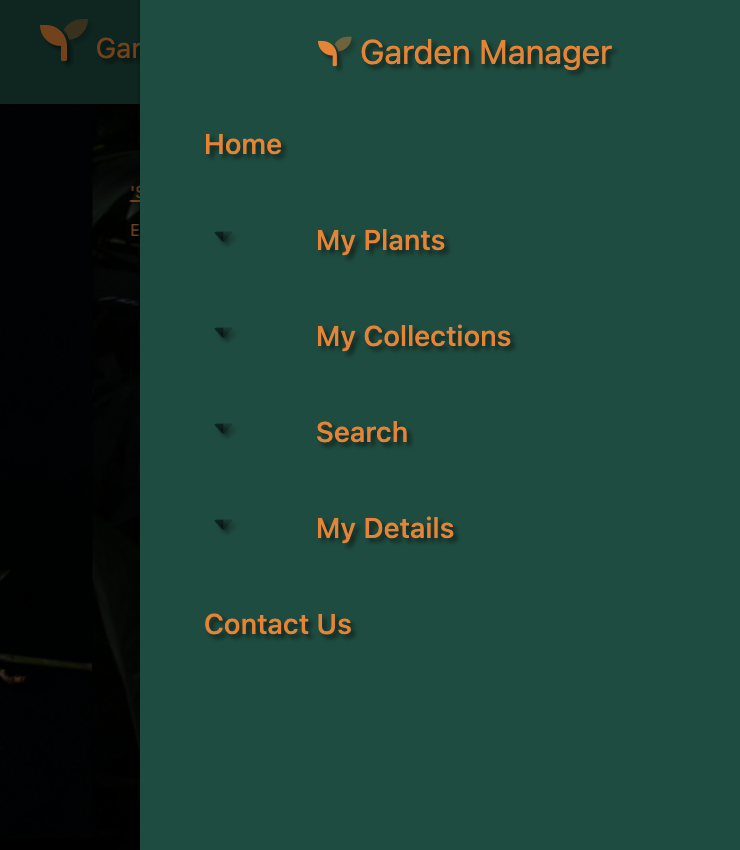
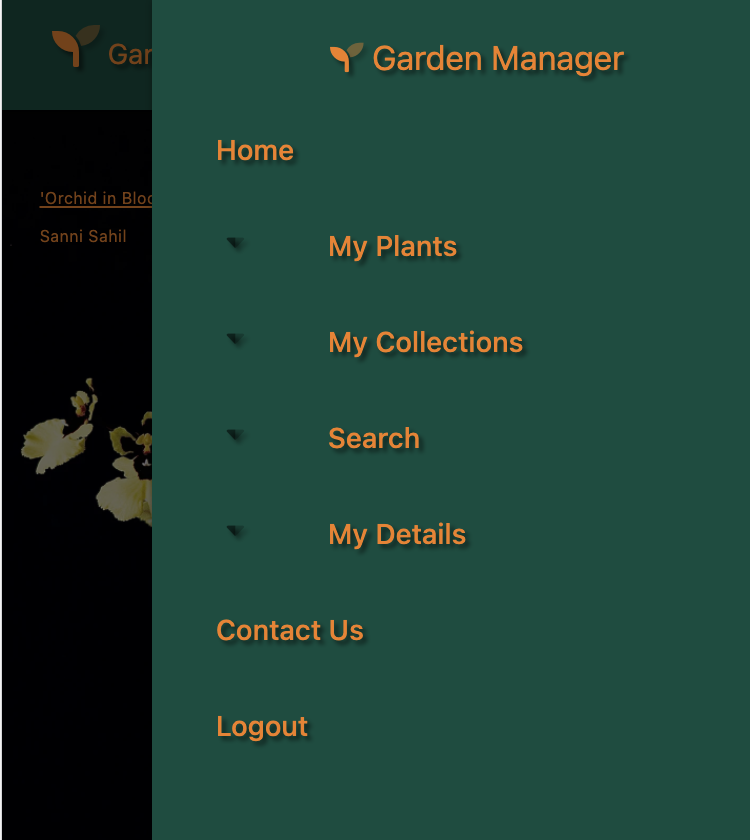
Post mentor review updates

diff --git a/templates/base.html b/templates/base.html
@@ -100,6 +100,17 @@
                     >My Details<i class="fad fa-caret-down"></i
                   ></a>
                 </li>
+                <li>
+                  <a
+                    href="{{ url_for('contact') }}"
+                    class="yellow-text text-darken-4"
+                    >Contact Us</a
+                  >
+                </li>
+                <li>
+                    <a href="{{ url_for('logout') }}" class="yellow-text text-darken-4"
+                    >Logout</a>
+                </li>
                 {% else %}
                 <li>
                   <a
@@ -115,7 +126,6 @@
                     >Register</a
                   >
                 </li>
-                {% endif %}
                 <li>
                   <a
                     href="{{ url_for('contact') }}"
@@ -123,6 +133,7 @@
                     >Contact Us</a
                   >
                 </li>
+                {% endif %}
               </ul>
             </div>
           </nav>
@@ -171,6 +182,14 @@
               >My Details<i class="fad fa-caret-down"></i
             ></a>
           </li>
+          <li>
+            <a href="{{ url_for('contact') }}" class="yellow-text text-darken-4"
+              >Contact Us</a>
+          </li>
+          <li>
+            <a href="{{ url_for('logout') }}" class="yellow-text text-darken-4"
+            >Logout</a>
+                </li>
           {% else %}
           <li>
             <a href="{{ url_for('login') }}" class="yellow-text text-darken-4"
@@ -181,15 +200,13 @@
             <a
               href="{{ url_for('register') }}"
               class="yellow-text text-darken-4"
-              >Register</a
-            >
+              >Register</a>
           </li>
-          {% endif %}
           <li>
             <a href="{{ url_for('contact') }}" class="yellow-text text-darken-4"
-              >Contact Us</a
-            >
+              >Contact Us</a>
           </li>
+          {% endif %}
         </ul>
 
         <ul id="dropdown1" class="dropdown-content teal darken-4">
@@ -259,11 +276,6 @@
               >My Details</a
             >
           </li>
-          <li>
-            <a href="{{ url_for('logout') }}" class="yellow-text text-darken-4"
-              >Logout</a
-            >
-          </li>
         </ul>
         <ul id="dropdown6" class="dropdown-content teal darken-4">
           <li>
@@ -330,11 +342,6 @@
           <li>
             <a href="{{url_for('get_users')}}" class="yellow-text text-darken-4"
               >My Details</a
-            >
-          </li>
-          <li>
-            <a href="{{ url_for('logout') }}" class="yellow-text text-darken-4"
-              >Logout</a
             >
           </li>
         </ul>

diff --git a/templates/index.html b/templates/index.html
@@ -19,17 +19,8 @@
           images, scientific details, colors, activities. Add, delete, review
           your plants and put them in your collections!
         </p>
-        <div class="row"></div>
-        <a
-          href="{{ url_for('login') }}"
-          class="waves-effect waves-light teal darken-2 btn left"
-          >Login <i class="fas fa-sign-in-alt"></i
-        ></a>
-        <a
-          href="{{ url_for('register') }}"
-          class="waves-effect waves-light teal darken-2 btn right"
-          >Register <i class="fas fa-edit"></i
-        ></a>
+        
+        
       </div>
     </div>
   </div>
@@ -82,21 +73,6 @@
         </p>
       </div>
     </div>
-  </div>
-</div>
-
-<div class="row">
-  <div class="btn-css">
-    <a
-      href="{{ url_for('register') }}"
-      class="waves-effect waves-light teal darken-2 btn"
-      >Register <i class="fas fa-edit"></i
-    ></a>
-    <a
-      href="{{ url_for('login') }}"
-      class="waves-effect waves-light teal darken-2 btn right"
-      >Login <i class="fas fa-sign-in-alt"></i
-    ></a>
   </div>
 </div>
 {% endblock %}

diff --git a/templates/register.html b/templates/register.html
@@ -11,7 +11,7 @@
     <div class="card-panel">
       <!-- first name / last name -->
       <div class="row">
-        <div class="input-field col s6">
+        <div class="input-field col s12">
           <i class="fas fa-user prefix teal-text text-darken-4"></i>
           <input
             id="first_name"
@@ -22,7 +22,9 @@
           />
           <label for="first_name">First Name</label>
         </div>
-        <div class="input-field col s6">
+        </div>
+        <div class="row">
+        <div class="input-field col s12">
           <i class="fas fa-address-book prefix teal-text text-darken-4"></i>
           <input
             id="last_name"

diff --git a/templates/editplants.html b/templates/editplants.html
@@ -73,7 +73,7 @@
         <div class="row">
 			<div class="input-field col s12">
 				<i class="material-icons prefix">today</i>
-				<input id="date_added" name="date_added" type="text" class="datepicker" value="{{plant.date_added}}">
+				<input id="date_added" name="date_added" type="date" class="datepicker" value="{{plant.date_added}}">
 				<label for="date_added">Date Added: </label>
 			</div>
         </div>

diff --git a/templates/editcollections.html b/templates/editcollections.html
@@ -33,7 +33,7 @@
           <input
             id="date_added"
             name="date_added"
-            type="text"
+            type="date"
             class="datepicker"
             value="{{collection.date_added}}"
           />

diff --git a/templates/add_trefle_plant.html b/templates/add_trefle_plant.html
@@ -122,7 +122,7 @@
           <input
             id="date_added"
             name="date_added"
-            type="text"
+            type="date"
             class="datepicker"
             value="{{plant.date_added}}"
           />

diff --git a/templates/addplants.html b/templates/addplants.html
@@ -107,7 +107,7 @@
           <input
             id="date_added"
             name="date_added"
-            type="text"
+            type="date"
             class="datepicker validate"
             required
           />

diff --git a/templates/addcollections.html b/templates/addcollections.html
@@ -40,7 +40,7 @@
           <input
             id="date_added"
             name="date_added"
-            type="text"
+            type="date"
             class="datepicker validate"
             required
           />

diff --git a/app.py b/app.py
@@ -233,6 +233,7 @@ def register():
         # put the new user into 'session' cookie
         session["user"] = request.form.get("username").lower()
         flash("Registration Successful!")
+        return render_template("login.html")
     return render_template("register.html")
 
 

diff --git a/README.md b/README.md
@@ -2,62 +2,56 @@
 
 [View the live **GARDEN MANAGER**  :seedling:  project here.](https://plant-manager-flask-mongodb.herokuapp.com/)
 
-The project uses two key API interfaces as shown here;
-### [Trefle.io](https://Trefle.io/)
-  ![alt text](https://github.com/Readri205/MS3_Plant_Manager/blob/master/static/images/readme/trefle_header.png?raw= "Trefle Logo")
-
-### [Plant.id](https://plant.id/)
-  ![alt text](https://github.com/Readri205/MS3_Plant_Manager/blob/master/static/images/readme/plant_id_header.png?raw= "Plant.ID Logo")
-
 # **GARDEN MANAGER :seedling:**
 
 ## Contents
 
 - [**GARDEN MANAGER :seedling:**](#--garden-manager--seedling---)
 
-- [Site Goals](#site-goals)
-- [User Experience (UX)](#user-experience--ux-)
-  * [User stories](#user-stories)
-    + [First Time Visitor Goals](#first-time-visitor-goals)
-    + [Returning Visitor Goals](#returning-visitor-goals)
-    + [Frequent User Goals](#frequent-user-goals)
-    + [Mobile Menu](#mobile-menu)
-  * [Design](#design)
-    + [colour Scheme](#colour-scheme)
-    + [Typography](#typography)
-    + ['Materialize' Card Structure](#-materialize--card-structure)
-    + [Imagery](#imagery)
-  * [Wireframes](#wireframes)
-    + [Original Wireframe Design (October 15, 2020).](#original-wireframe-design--october-15--2020-)
-    + [Actual Site Design.](#actual-site-design)
-- [Features](#features)
-  * [Responsive for Device Size](#responsive-for-device-size)
-  * [Interactive Elements](#interactive-elements)
-  * [Future Features](#future-features)
-- [Technologies Used](#technologies-used)
-  * [Languages Used](#languages-used)
-  * [Database Used](#database-used)
-  * [Frameworks, Databases, Libraries & Programs Used](#frameworks--databases--libraries---programs-used)
-  * [Application Programming Interfaces (API's) Used](#application-programming-interfaces--api-s--used)
-- [Site Construction](#site-construction)
-  * [Consistent Page Components](#consistent-page-components)
-  * [Home Page](#home-page)
-  * [Subsequent Pages](#subsequent-pages)
-  * [Contacts Page](#contacts-page)
-  * [Construction Table](#construction-table)
-- [Testing](#testing)
-  * [Known Bugs and Issues](#known-bugs-and-issues)
-- [Deployment](#deployment)
-  * [GitHub Pages](#github-pages)
-  * [Heroku Deployment](#heroku-deployment)
-  * [Forking the GitHub Repository](#forking-the-github-repository)
-  * [Making a Local Clone](#making-a-local-clone)
-- [Credits](#credits)
-  * [Code](#code)
-- [Content](#content)
-  * [Media](#media)
-  * [Acknowledgements](#acknowledgements)
-- [Version Control](#version-control)
+- [**GARDEN MANAGER :seedling:**](#--garden-manager--seedling---)
+  * [Contents](#contents)
+  * [Site Goals](#site-goals)
+  * [User Experience (UX)](#user-experience--ux-)
+    + [User stories](#user-stories)
+      - [First Time Visitor Goals](#first-time-visitor-goals)
+      - [Returning Visitor Goals](#returning-visitor-goals)
+      - [Frequent User Goals](#frequent-user-goals)
+      - [Mobile Menu](#mobile-menu)
+    + [Design](#design)
+      - [colour Scheme](#colour-scheme)
+      - [Typography](#typography)
+      - ['Materialize' Card Structure](#-materialize--card-structure)
+      - [Imagery](#imagery)
+    + [Wireframes](#wireframes)
+      - [Original Wireframe Design (October 15, 2020).](#original-wireframe-design--october-15--2020-)
+      - [Actual Site Design.](#actual-site-design)
+  * [Features](#features)
+    + [Responsive for Device Size](#responsive-for-device-size)
+    + [Interactive Elements](#interactive-elements)
+    + [Future Features](#future-features)
+  * [Technologies Used](#technologies-used)
+    + [Languages Used](#languages-used)
+    + [Database Used](#database-used)
+    + [Frameworks, Databases, Libraries & Programs Used](#frameworks--databases--libraries---programs-used)
+    + [Application Programming Interfaces (API's) Used](#application-programming-interfaces--api-s--used)
+  * [Site Construction](#site-construction)
+    + [Consistent Page Components](#consistent-page-components)
+    + [Home Page](#home-page)
+    + [Subsequent Pages](#subsequent-pages)
+    + [Contacts Page](#contacts-page)
+    + [Construction Table](#construction-table)
+  * [Testing](#testing)
+    + [Known Bugs and Issues](#known-bugs-and-issues)
+  * [Deployment](#deployment)
+    + [Heroku Deployment](#heroku-deployment)
+    + [Forking the GitHub Repository](#forking-the-github-repository)
+    + [Making a Local Clone](#making-a-local-clone)
+  * [Credits](#credits)
+    + [Code](#code)
+  * [Content](#content)
+    + [Media](#media)
+    + [Acknowledgements](#acknowledgements)
+  * [Version Control](#version-control)
 
 <small><i><a href='http://ecotrust-canada.github.io/markdown-toc/'>Table of contents generated with markdown-toc</a></i></small>
 
@@ -482,14 +476,6 @@ Testing information can be found in a separate [testing.md](https://github.com/R
     ![alt text](https://github.com/Readri205/MS3_Plant_Manager/blob/master/static/images/readme/oops_error_message.png?raw= "Error Message")
 
 ## Deployment
-
-### GitHub Pages
-
-The project was deployed to GitHub Pages using the following process;
-
-1. The project was written in [GitPod](https://www.gitpod.io/) and pushed to GitHub Pages ready for deployment by taking the following steps;
-1. Logged in to GitHub and located the [GitHub Repository](https://github.com/Readri205/MS3_Plant_Manager);
-1. From this point deployment was made linking the Github repository to Heroku;
 
 ### Heroku Deployment
 
@@ -1017,6 +1003,7 @@ A **Zip File** clone can be downloaded from the same "Code" drop down above;
    - V43.0 Upload new test schedule and image
    - V43.1 Update debug=False
    - V43.2 Remove edited out code
+   - V43.3 Post mentor review updates
 
 
 ***

diff --git a/testing.md b/testing.md
@@ -4,13 +4,6 @@
 
 [View the live **GARDEN MANAGER** :seedling: project here.](https://plant-manager-flask-mongodb.herokuapp.com/)
 
-The project uses two key API interfaces as shown here;
-### [Trefle.io](https://trefle.io/)
-![alt text](https://github.com/Readri205/MS3_Plant_Manager/blob/master/static/images/readme/trefle_header.png?raw= "Trefle Logo")
-
-### [Plant.id](https://plant.id/)
-![alt text](https://github.com/Readri205/MS3_Plant_Manager/blob/master/static/images/readme/plant_id_header.png?raw= "Plant.ID Logo")
-
 View the Main [README here](https://github.com/Readri205/MS3_Plant_Manager/blob/master/README.md)
 
 ## Contents
